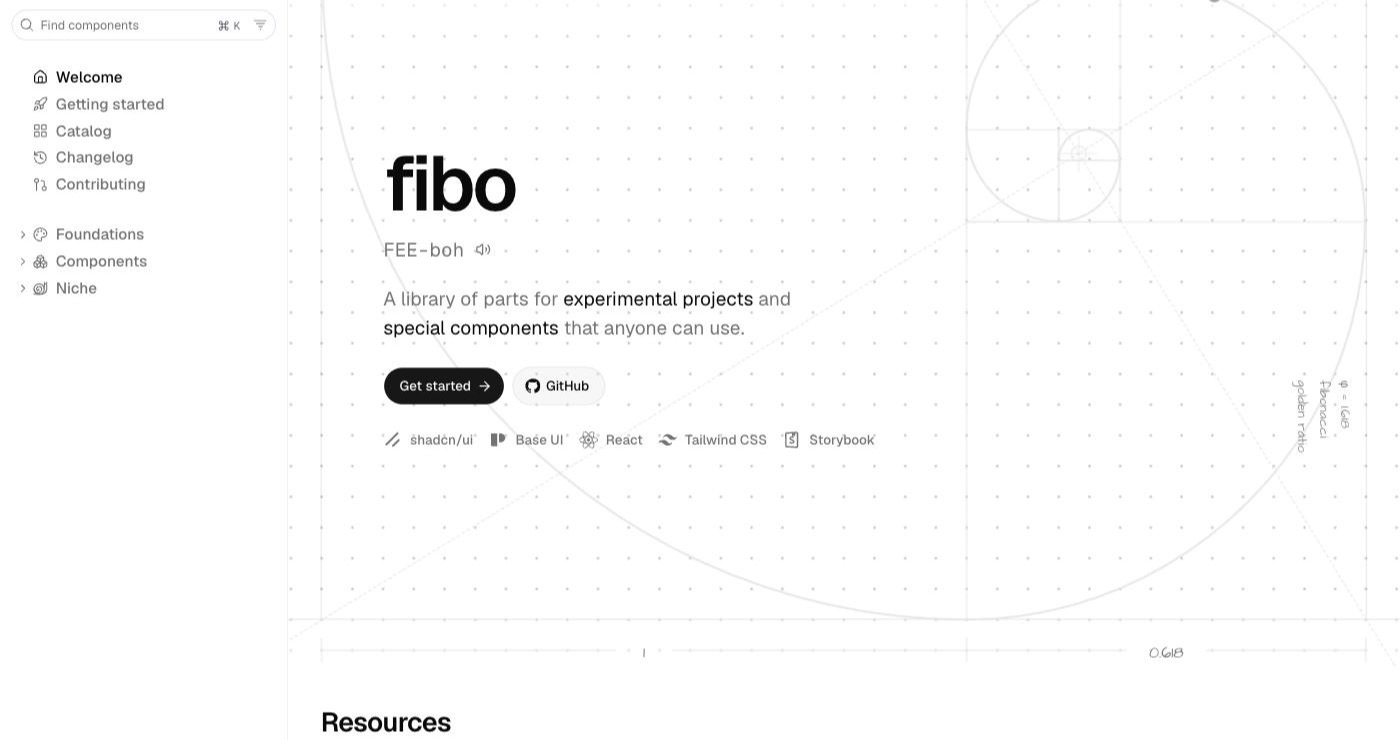
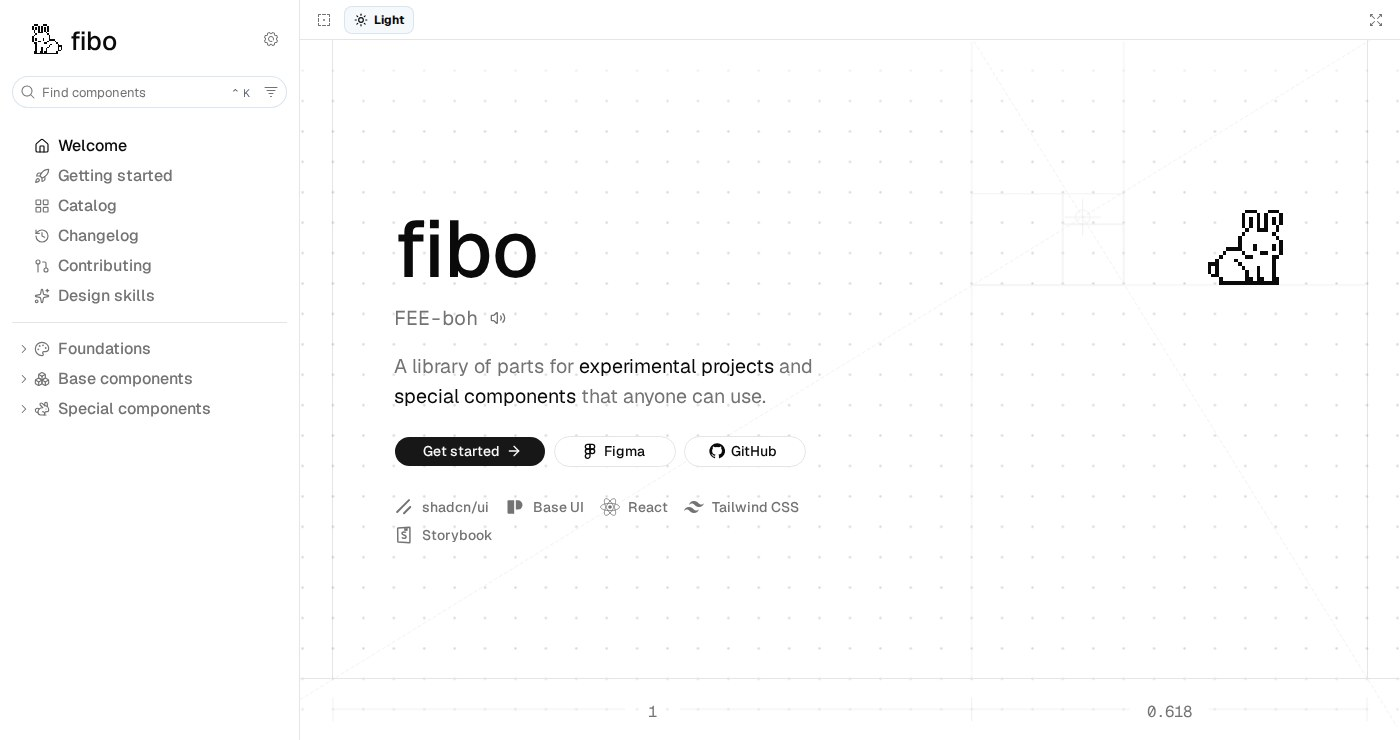
Drop the spiral from the Welcome hero and set it in Geist
The hero keeps its golden construction, the cuts, squares and dashed
diagonals, but no longer draws the spiral or launches dots along it. The
heading uses Geist Medium like the logo, and the drafting labels use Geist
Mono in place of the handwriting face, which is no longer loaded. The
README screenshot shows the rabbit.

diff --git a/apps/storybook/src/blocks/hero.tsx b/apps/storybook/src/blocks/hero.tsx
@@ -34,11 +34,11 @@ import { listenForUnlock, sfx } from "./sounds.js"
 
 /*
  * Geometry is ncdai's hero-01 (@ncdai/hero-01): a golden rectangle whose
- * large square holds the copy, a few hairlines marking the cuts, and a
- * spiral from the pole out past the frame. `wide` is the landscape frame;
- * `tall` turns it upright for narrow containers. fibo adds the motion: the
- * spiral draws outward from the pole, and fibo, a pixel rabbit, builds up on
- * a line clear of it and dances there.
+ * large square holds the copy and a few hairlines marking the cuts. fibo's
+ * brand draws no spirals, so only the construction is kept: the cuts, the
+ * squares and the dashed diagonals. `wide` is the landscape frame; `tall`
+ * turns it upright for narrow containers. fibo, a pixel rabbit, builds up
+ * on a line clear of the copy and idles there.
  */
 type Geometry = {
   viewBox: string
@@ -51,15 +51,10 @@ type Geometry = {
     height: number
     transform?: string
   }[]
-  /** Pole to the frame's edge. */
-  spiral: string
   /** Where fibo stands: a point on a cut or the frame's edge, under his foot. */
   fibo: { x: number; y: number }
-  /** The last quarter turn, which leaves the frame. */
-  tail: string
-  /** Stroke and dot size in viewBox units, about 2px and 7px at full size. */
+  /** Stroke weight in viewBox units, about 2px at full size. */
   stroke: number
-  dot: number
   /** The part of the frame without copy. Hover and click targets are clipped
    * to it so they never sit over the heading, text or buttons. */
   open: { x: number; y: number; width: number; height: number }
@@ -70,7 +65,7 @@ type Geometry = {
 type Sketch = {
   /** Dimension lines below the frame, each with end ticks and a label. */
   dimensions: { d: string; label: string; x: number; y: number }[]
-  /** Where the spiral converges: the crossing of the two diagonals. */
+  /** Where the two diagonals cross. */
   pole: { x: number; y: number }
 }
 
@@ -86,12 +81,8 @@ const WIDE: Geometry = {
     { x: 240, y: 60.5, width: 20, height: 20 },
     { x: 240, y: 50.5, width: 20, height: 10 },
   ],
-  spiral:
-    "M239.897 60.3571C239.897 54.894 244.414 50.381 249.882 50.381C255.35 50.381 259.868 54.894 259.868 60.3571C259.868 71.2835 250.833 80.3095 239.897 80.3095C223.493 80.3095 209.941 66.7704 209.941 50.381C209.941 23.0652 232.527 0.499999 259.868 0.5C303.613 0.499995 339.75 36.6043 339.75 80.3095C339.75 151.33 281.027 210 209.941 210C95.1103 210 0.25 115.226 0.25 0.5",
   fibo: { x: 300, y: 80.5 },
-  tail: "C0.250008 -185.69 154.06 -339.5 340.25 -339.5",
   stroke: 0.62,
-  dot: 2.2,
   open: { x: 210, y: -400, width: 600, height: 1000 },
   sketch: {
     dimensions: [
@@ -149,12 +140,8 @@ const TALL: Geometry = {
       transform: "rotate(90 159.5 240)",
     },
   ],
-  spiral:
-    "M149.643 239.897C155.106 239.897 159.619 244.414 159.619 249.882C159.619 255.35 155.106 259.868 149.643 259.868C138.717 259.868 129.69 250.833 129.69 239.897C129.69 223.493 143.23 209.941 159.619 209.941C186.935 209.941 209.5 232.527 209.5 259.868C209.5 303.613 173.396 339.75 129.69 339.75C58.6695 339.75 0 281.027 0 209.941C0 95.1103 94.7738 0.24998 209.5 0.249985",
   fibo: { x: 30, y: 340 },
-  tail: "C395.69 0.250001 549.5 154.06 549.5 340.25",
   stroke: 0.9,
-  dot: 3,
   open: { x: -400, y: 210, width: 1000, height: 600 },
 }
 
@@ -180,9 +167,8 @@ type Rect = Geometry["rects"][number]
 // a border.
 const LINE_OPACITY = 0.55
 
-function Spiral({ geometry }: { geometry: Geometry }) {
-  const { viewBox, diagonals, lines, rects, spiral, tail, stroke, sketch } =
-    geometry
+function Construction({ geometry }: { geometry: Geometry }) {
+  const { viewBox, diagonals, lines, rects, sketch } = geometry
   return (
     <svg
       className="pointer-events-none absolute inset-0 size-full overflow-visible"
@@ -219,12 +205,6 @@ function Spiral({ geometry }: { geometry: Geometry }) {
             />
           ))}
         </g>
-        <path
-          d={spiral + tail}
-          pathLength={1}
-          strokeWidth={stroke}
-          className="fibo-draw fibo-draw--spiral stroke-border"
-        />
       </g>
 
       {sketch ? (
@@ -254,7 +234,7 @@ function Spiral({ geometry }: { geometry: Geometry }) {
             </g>
           </g>
           <g
-            className="fibo-tile font-hand fill-muted-foreground"
+            className="fibo-tile fill-muted-foreground font-mono"
             style={{ animationDelay: "1s" }}
           >
             {sketch.dimensions.map((dimension) => (
@@ -277,11 +257,11 @@ function Spiral({ geometry }: { geometry: Geometry }) {
 }
 
 /*
- * fibo stands at twice the spiral's weight per pixel, so he reads as the
+ * fibo stands at twice the construction's weight per pixel, so he reads as the
  * logo rather than a mark on the drawing.
  */
 const FIBO_SCALE = 2
-const FIBO_ASSEMBLE_MS = 1200
+const FIBO_ASSEMBLE_MS = 800
 // Art pixels from his origin to his eyes, and how far the pointer must be
 // from them before he looks that way.
 const FIBO_EYES = { x: 5, y: -10 }
@@ -365,7 +345,7 @@ function glance(offset: number): -1 | 0 | 1 {
 }
 
 /*
- * fibo builds up from coarse blocks once the spiral has drawn, then idles:
+ * fibo builds up from coarse blocks once the construction is in, then idles:
  * blinks, ear twitches and the odd hop. With the pointer anywhere in the
  * hero he turns to it, eyes following and ears up, and turns round when it
  * goes behind him. Clicking him earns a remark and a reaction; his click
@@ -594,46 +574,6 @@ function Trace({ shape, width }: { shape: Shape; width: number }) {
   )
 }
 
-/** One dot launched by a click: rides in from the frame's edge and fades. */
-function LaunchedDot({ href, r }: { href: string; r: number }) {
-  const motion = useRef<SVGAnimateMotionElement>(null)
-  const fade = useRef<SVGAnimateElement>(null)
-
-  useEffect(() => {
-    motion.current?.beginElement()
-    fade.current?.beginElement()
-  }, [])
-
-  return (
-    <circle r={r} opacity={0} className="pointer-events-none fill-ring">
-      <animate
-        ref={fade}
-        attributeName="opacity"
-        values="0;1;1;0"
-        keyTimes="0;0.08;0.85;1"
-        dur="3.4s"
-        begin="indefinite"
-        fill="freeze"
-      />
-      <animateMotion
-        ref={motion}
-        dur="3.4s"
-        begin="indefinite"
-        fill="freeze"
-        keyPoints="1;0"
-        keyTimes="0;1"
-        calcMode="spline"
-        keySplines="0.3 0 0.2 1"
-      >
-        <mpath href={href} />
-      </animateMotion>
-    </circle>
-  )
-}
-
-const LAUNCH_MS = 3500
-const MAX_LAUNCHED = 8
-
 /*
  * The pointer layer, drawn over the copy's grid so it can receive events.
  * The SVG itself ignores the pointer; only the clipped hit strokes take it,
@@ -641,21 +581,9 @@ const MAX_LAUNCHED = 8
  */
 function Interactive({ id, geometry }: { id: string; geometry: Geometry }) {
   const reduced = usePrefersReducedMotion()
-  const [launched, setLaunched] = useState<number[]>([])
-  const next = useRef(0)
 
   if (reduced) return null
 
-  const launch = () => {
-    const key = next.current++
-    setLaunched((keys) => [...keys.slice(-(MAX_LAUNCHED - 1)), key])
-    window.setTimeout(
-      () => setLaunched((keys) => keys.filter((k) => k !== key)),
-      LAUNCH_MS
-    )
-  }
-
-  const ride = `${id}-ride`
   const clip = `${id}-open`
   return (
     <svg
@@ -668,17 +596,8 @@ function Interactive({ id, geometry }: { id: string; geometry: Geometry }) {
         <clipPath id={clip}>
           <rect {...geometry.open} />
         </clipPath>
-        <path id={ride} d={geometry.spiral} />
       </defs>
       <g clipPath={`url(#${clip})`}>
-        <path
-          d={geometry.spiral}
-          strokeWidth={18}
-          vectorEffect="non-scaling-stroke"
-          pointerEvents="stroke"
-          className="cursor-pointer stroke-transparent"
-          onPointerDown={launch}
-        />
         {geometry.lines.map((d) => (
           <Trace key={d} shape={{ path: d }} width={geometry.stroke} />
         ))}
@@ -690,9 +609,6 @@ function Interactive({ id, geometry }: { id: string; geometry: Geometry }) {
           />
         ))}
       </g>
-      {launched.map((key) => (
-        <LaunchedDot key={key} href={`#${ride}`} r={geometry.dot} />
-      ))}
     </svg>
   )
 }
@@ -739,7 +655,7 @@ function Pitch({ width, className }: { width: number; className?: string }) {
       style={{ "--u": `calc(100cqw * ${LATTICE} / ${width})` } as CSSProperties}
     >
       <div className="flex flex-col justify-end">
-        <h1 className="fibo-tile m-0 mb-[max(0.75rem,1.2cqw)] text-[clamp(3.5rem,18cqw,5rem)] leading-none font-semibold tracking-[-0.035em] text-foreground">
+        <h1 className="fibo-tile m-0 mb-[max(0.75rem,1.2cqw)] text-[clamp(3.5rem,18cqw,5rem)] leading-none font-medium text-foreground">
           fibo
         </h1>
         <p
@@ -902,7 +818,7 @@ function Frame({
   return (
     <div className="fibo-screen-lines relative border-x border-border">
       <Plate id={id} geometry={geometry} />
-      <Spiral geometry={geometry} />
+      <Construction geometry={geometry} />
       <div className={cn("relative grid", className)}>{children}</div>
       <Interactive id={id} geometry={geometry} />
       <Fibo geometry={geometry} area={area} />
@@ -922,7 +838,7 @@ function Hero() {
         <div className="hidden @3xl:block">
           <Frame
             geometry={WIDE}
-            id="fibo-hero-spiral"
+            id="fibo-hero"
             area={area}
             className="aspect-[1.618/1] grid-cols-[1.618fr_minmax(0,1fr)] grid-rows-[1fr_1.618fr]"
           >
@@ -932,7 +848,7 @@ function Hero() {
         <div className="@3xl:hidden">
           <Frame
             geometry={TALL}
-            id="fibo-hero-spiral-tall"
+            id="fibo-hero-tall"
             area={area}
             className="aspect-[1/1.618] grid-cols-[1.618fr_minmax(0,1fr)] grid-rows-[1.618fr_1fr]"
           >

diff --git a/apps/storybook/src/docs.css b/apps/storybook/src/docs.css
@@ -3,11 +3,6 @@
 /* globals.css only scans packages/ui; the docs blocks and pages live here. */
 @source "./";
 
-/* Architect's hand lettering for the drafting notes on the welcome hero. */
-@theme {
-  --font-hand: "Architects Daughter", ui-rounded, "Comic Sans MS", cursive;
-}
-
 /*
  * Storybook styles its docs chrome with emotion. These overrides are scoped
  * to `.sbdocs` and swap its shadows and greys for fibo's hairlines and
@@ -129,28 +124,11 @@
   background: var(--border);
 }
 
-/* Golden tiling on the welcome hero. */
-.fibo-draw {
-  stroke-dasharray: 1;
-  stroke-dashoffset: 1;
-  animation: fibo-draw 0.8s cubic-bezier(0.65, 0, 0.35, 1) forwards;
-}
-
-.fibo-draw--spiral {
-  animation-duration: 1.2s;
-  animation-delay: 0.4s;
-}
-
+/* The golden construction on the welcome hero fades in. */
 .fibo-tile {
   opacity: 0;
   animation: fibo-fade 0.6s ease-out forwards;
   animation-delay: 0.3s;
-}
-
-@keyframes fibo-draw {
-  to {
-    stroke-dashoffset: 0;
-  }
 }
 
 @keyframes fibo-fade {
@@ -160,10 +138,8 @@
 }
 
 @media (prefers-reduced-motion: reduce) {
-  .fibo-draw,
   .fibo-tile {
     animation: none;
-    stroke-dashoffset: 0;
     opacity: 1;
   }
 }

diff --git a/apps/storybook/.storybook/preview-head.html b/apps/storybook/.storybook/preview-head.html
@@ -2,5 +2,5 @@
 <link rel="preconnect" href="https://fonts.gstatic.com" crossorigin />
 <link
   rel="stylesheet"
-  href="https://fonts.googleapis.com/css2?family=Architects+Daughter&family=Geist:wght@400..700&family=Geist+Mono:wght@400..600&display=swap"
+  href="https://fonts.googleapis.com/css2?family=Geist:wght@400..700&family=Geist+Mono:wght@400..600&display=swap"
 />

diff --git a/CHANGELOG.md b/CHANGELOG.md
@@ -19,6 +19,8 @@ has the same history with links into the docs.
   logo and the favicon use him; he idles, hops, watches the pointer and
   reacts to clicks with new lines. The Pixel snail component is unchanged
   and stays as the loading indicator.
+- The Welcome page hero draws its golden construction without the spiral,
+  and its heading and drafting labels use Geist, matching the brand.
 - The shelves are renamed Base components and Special components, formerly
   Components and Niche. Docs pages move to `base-components-<name>` and
   `special-components-<name>`; links to the old pages redirect.

diff --git a/README.md b/README.md
@@ -15,7 +15,7 @@ follows your tokens, and belongs to you.
 [Figma library](https://www.figma.com/design/LJZ5Tt4Ba7NPPi8Xnq8i0e/Fibo-DS) ·
 [llms.txt](https://fibo.toribryan.com/llms.txt)
 
-![The fibo Storybook welcome page: a golden-rectangle hero with the spiral drawn over a dotted grid](./.github/assets/storybook-welcome.jpg)
+![The fibo Storybook welcome page: a golden-rectangle hero drawn in hairlines over a dotted grid, with fibo the pixel rabbit](./.github/assets/storybook-welcome.jpg)
 
 ## Install
 
